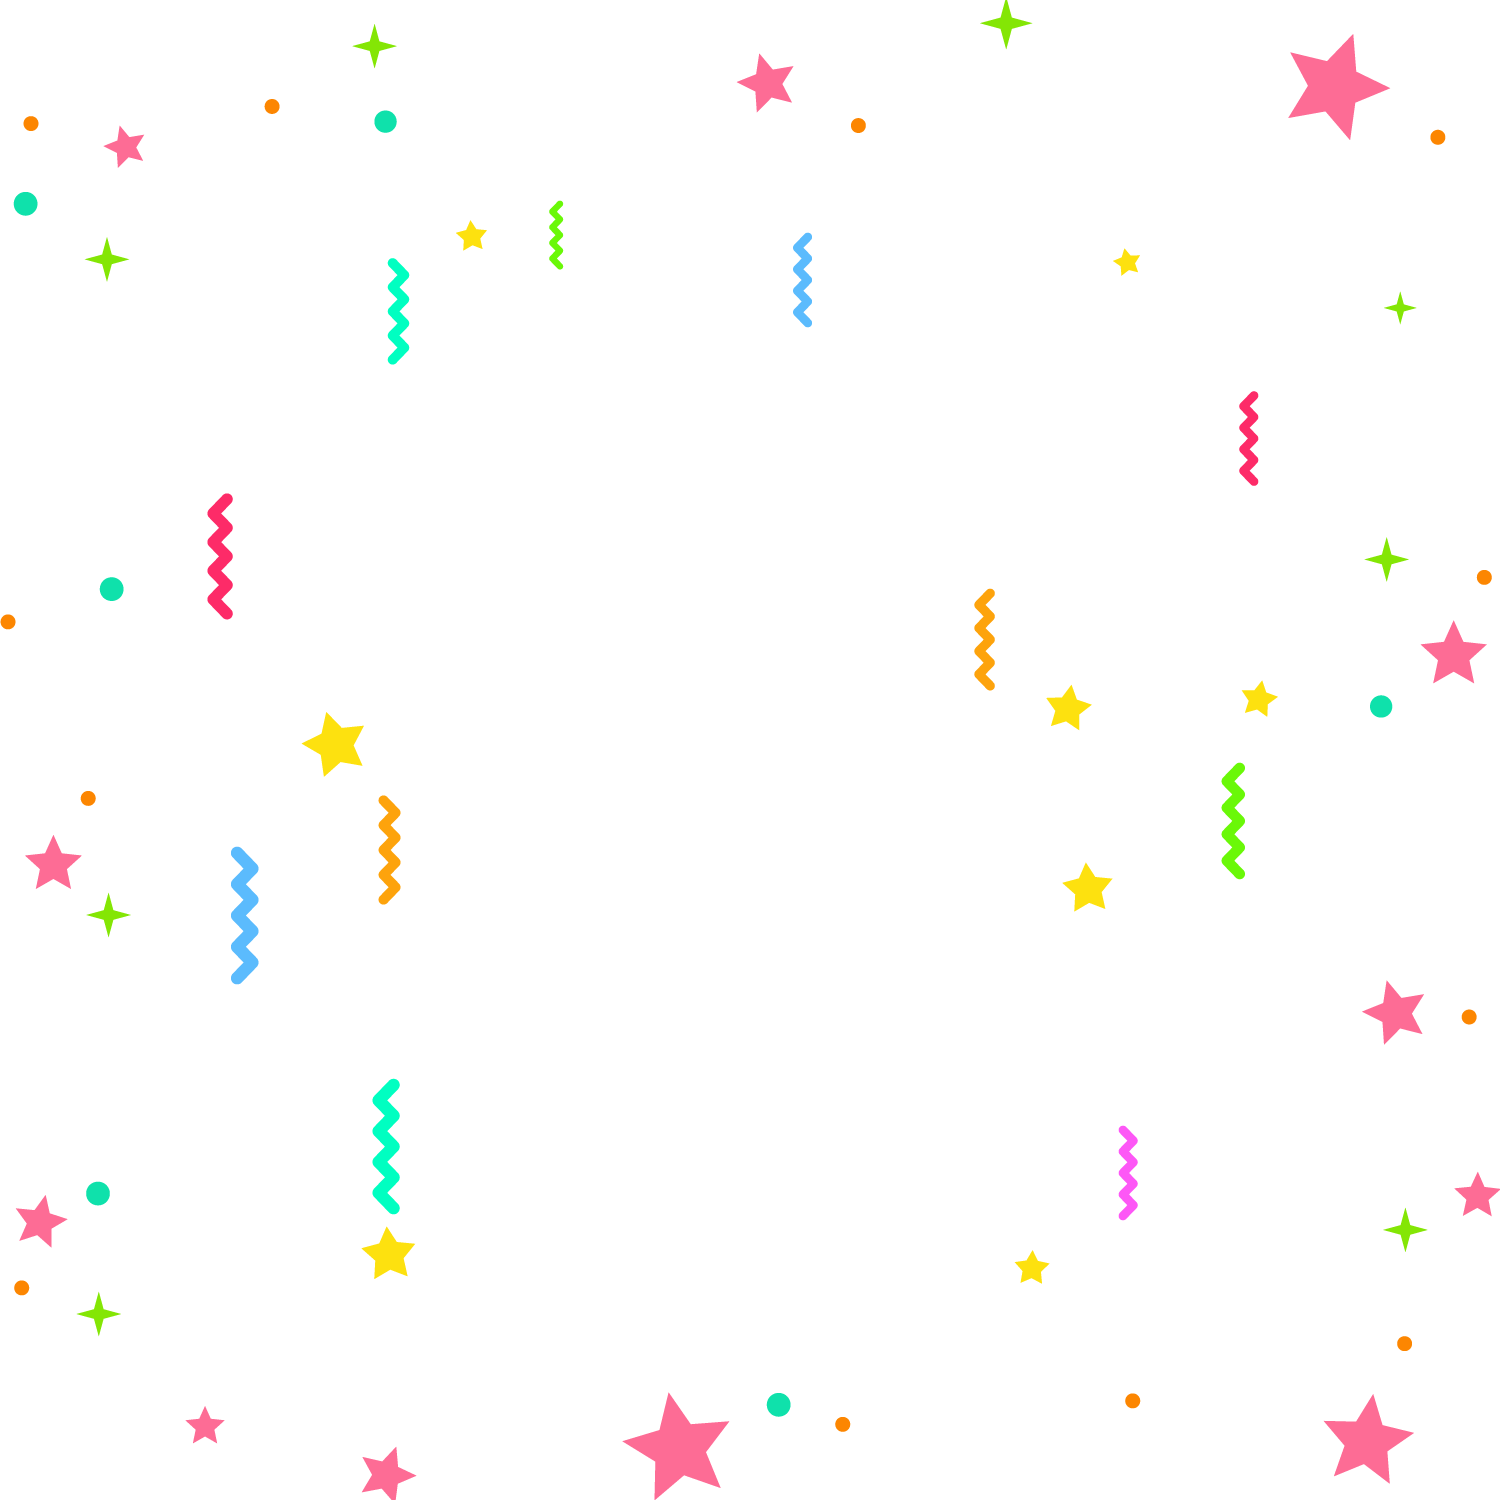
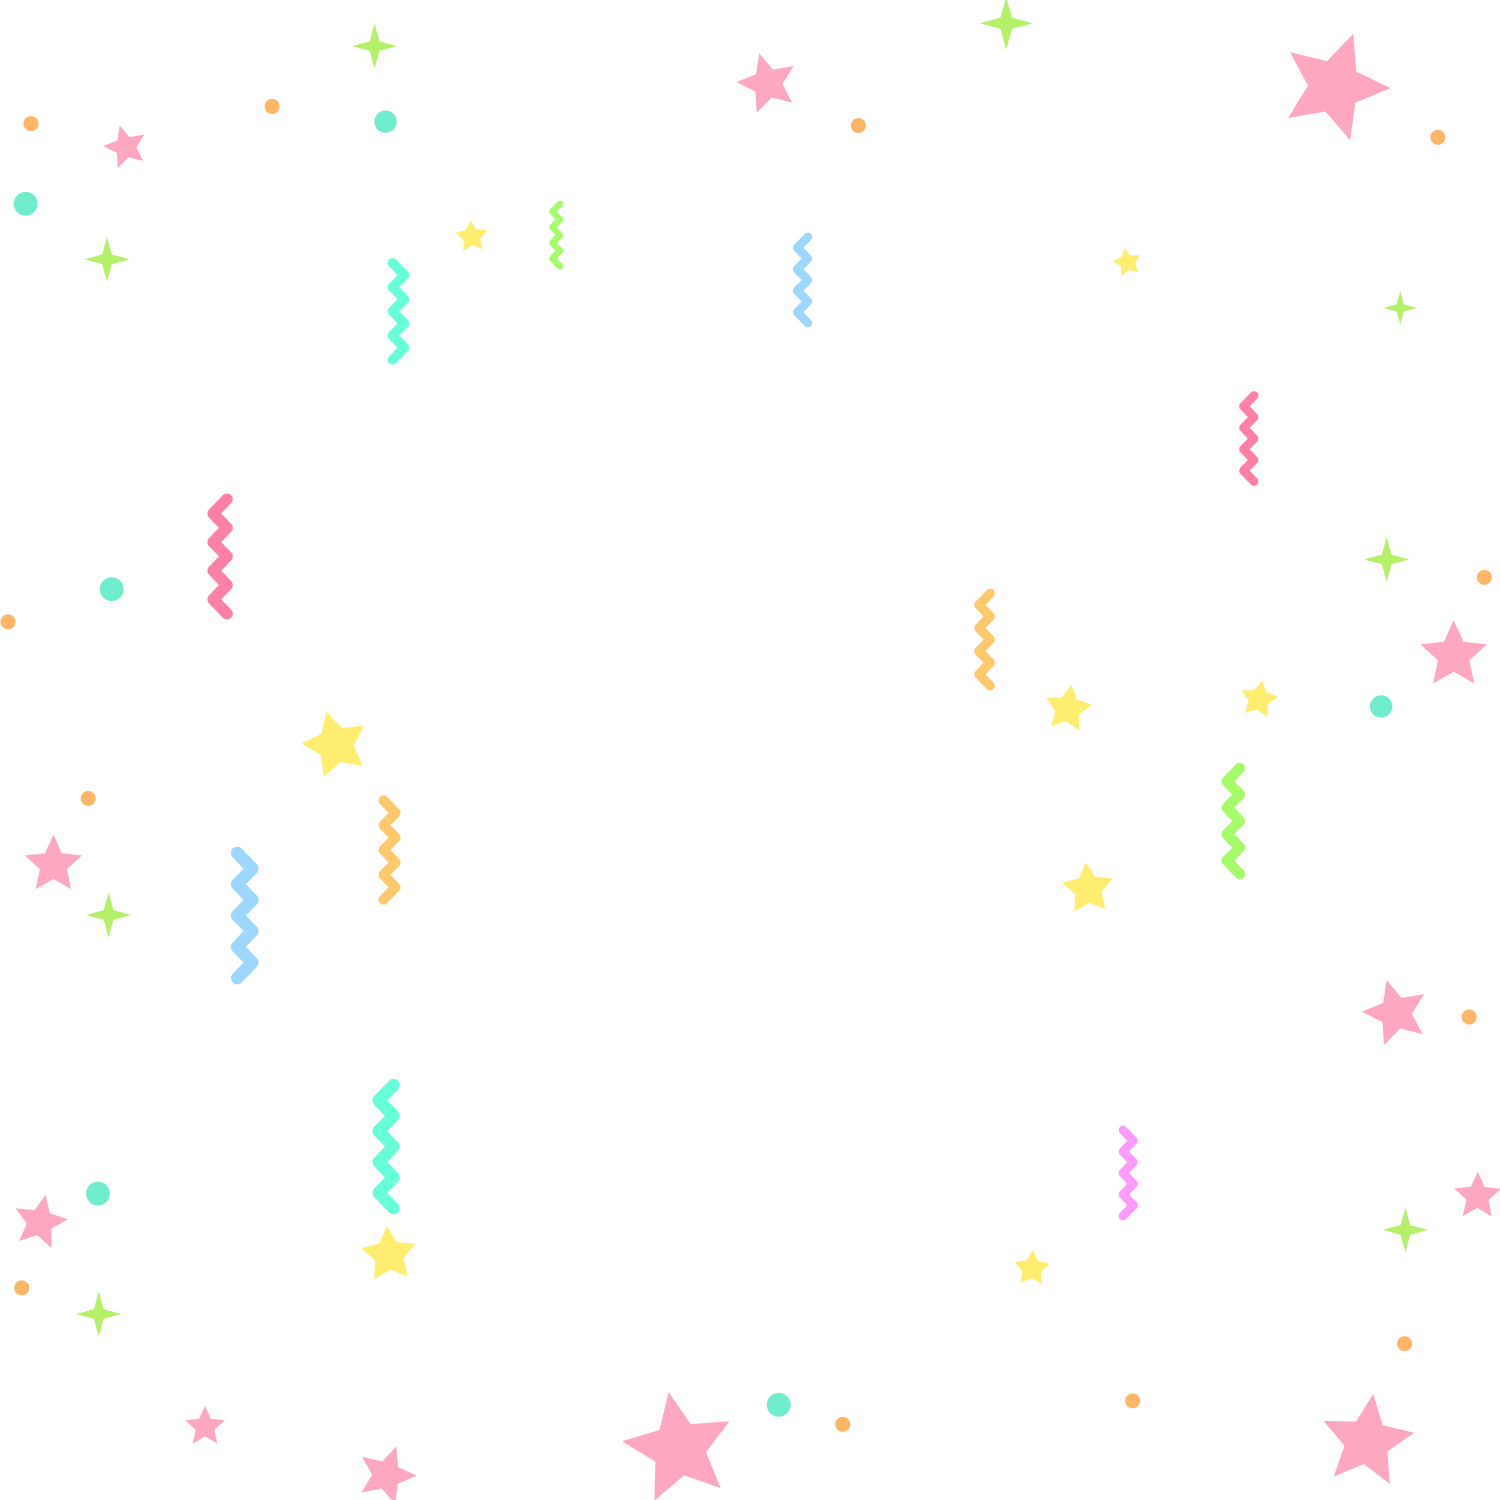
feat: change opacity

diff --git a/src/card/LeftPage.js b/src/card/LeftPage.js
@@ -12,11 +12,14 @@ export default function LeftPage() {
             backgroundSize: 'cover',
             width: '100%',
             height: '100%',
-            margin:0
+            margin: 0
 
         }}>
-            <div>
-                <span>
+            <div  >
+                <span >
+                    <div className="title">Hello world</div>
+                    <p>BERN, MASI, LELA, CEME, WAJI, MIWE, JUFE, BOXI, JAMU, LRIVA, GASUL, KRAM, CHAZ</p>
+
                     Bli bla blou bla
                 </span>
             </div>

diff --git a/src/card/HomePage.js b/src/card/HomePage.js
@@ -8,8 +8,7 @@ export default function HomePage() {
 
             <p>Toute la skool 20 vous souhaite un joyeux <span className="strong-word">Noël</span> et une bonne <span className="strong-word">année !</span> </p>
             <hr className="solid"></hr>
-
-            <p>BERN, MASI, LELA, CEME, WAJI, MIWE, JUFE, BOXI, JAMU, LRIVA, GASUL, KRAM, CHAZ</p>
+            <p>Ouvrez la carte pour récupérer vos cadeaux</p>
         </div>
     );
 }

diff --git a/src/App.css b/src/App.css
@@ -91,8 +91,11 @@ body {
     height:100%;
 }
 .left-page-content .title{
-    font-size: 30px;
+    padding-top: 35px;
+    text-align: center;
+    font-size: 3em;
 }
+
 .wrap {
     display: flex;
     justify-content: center;
